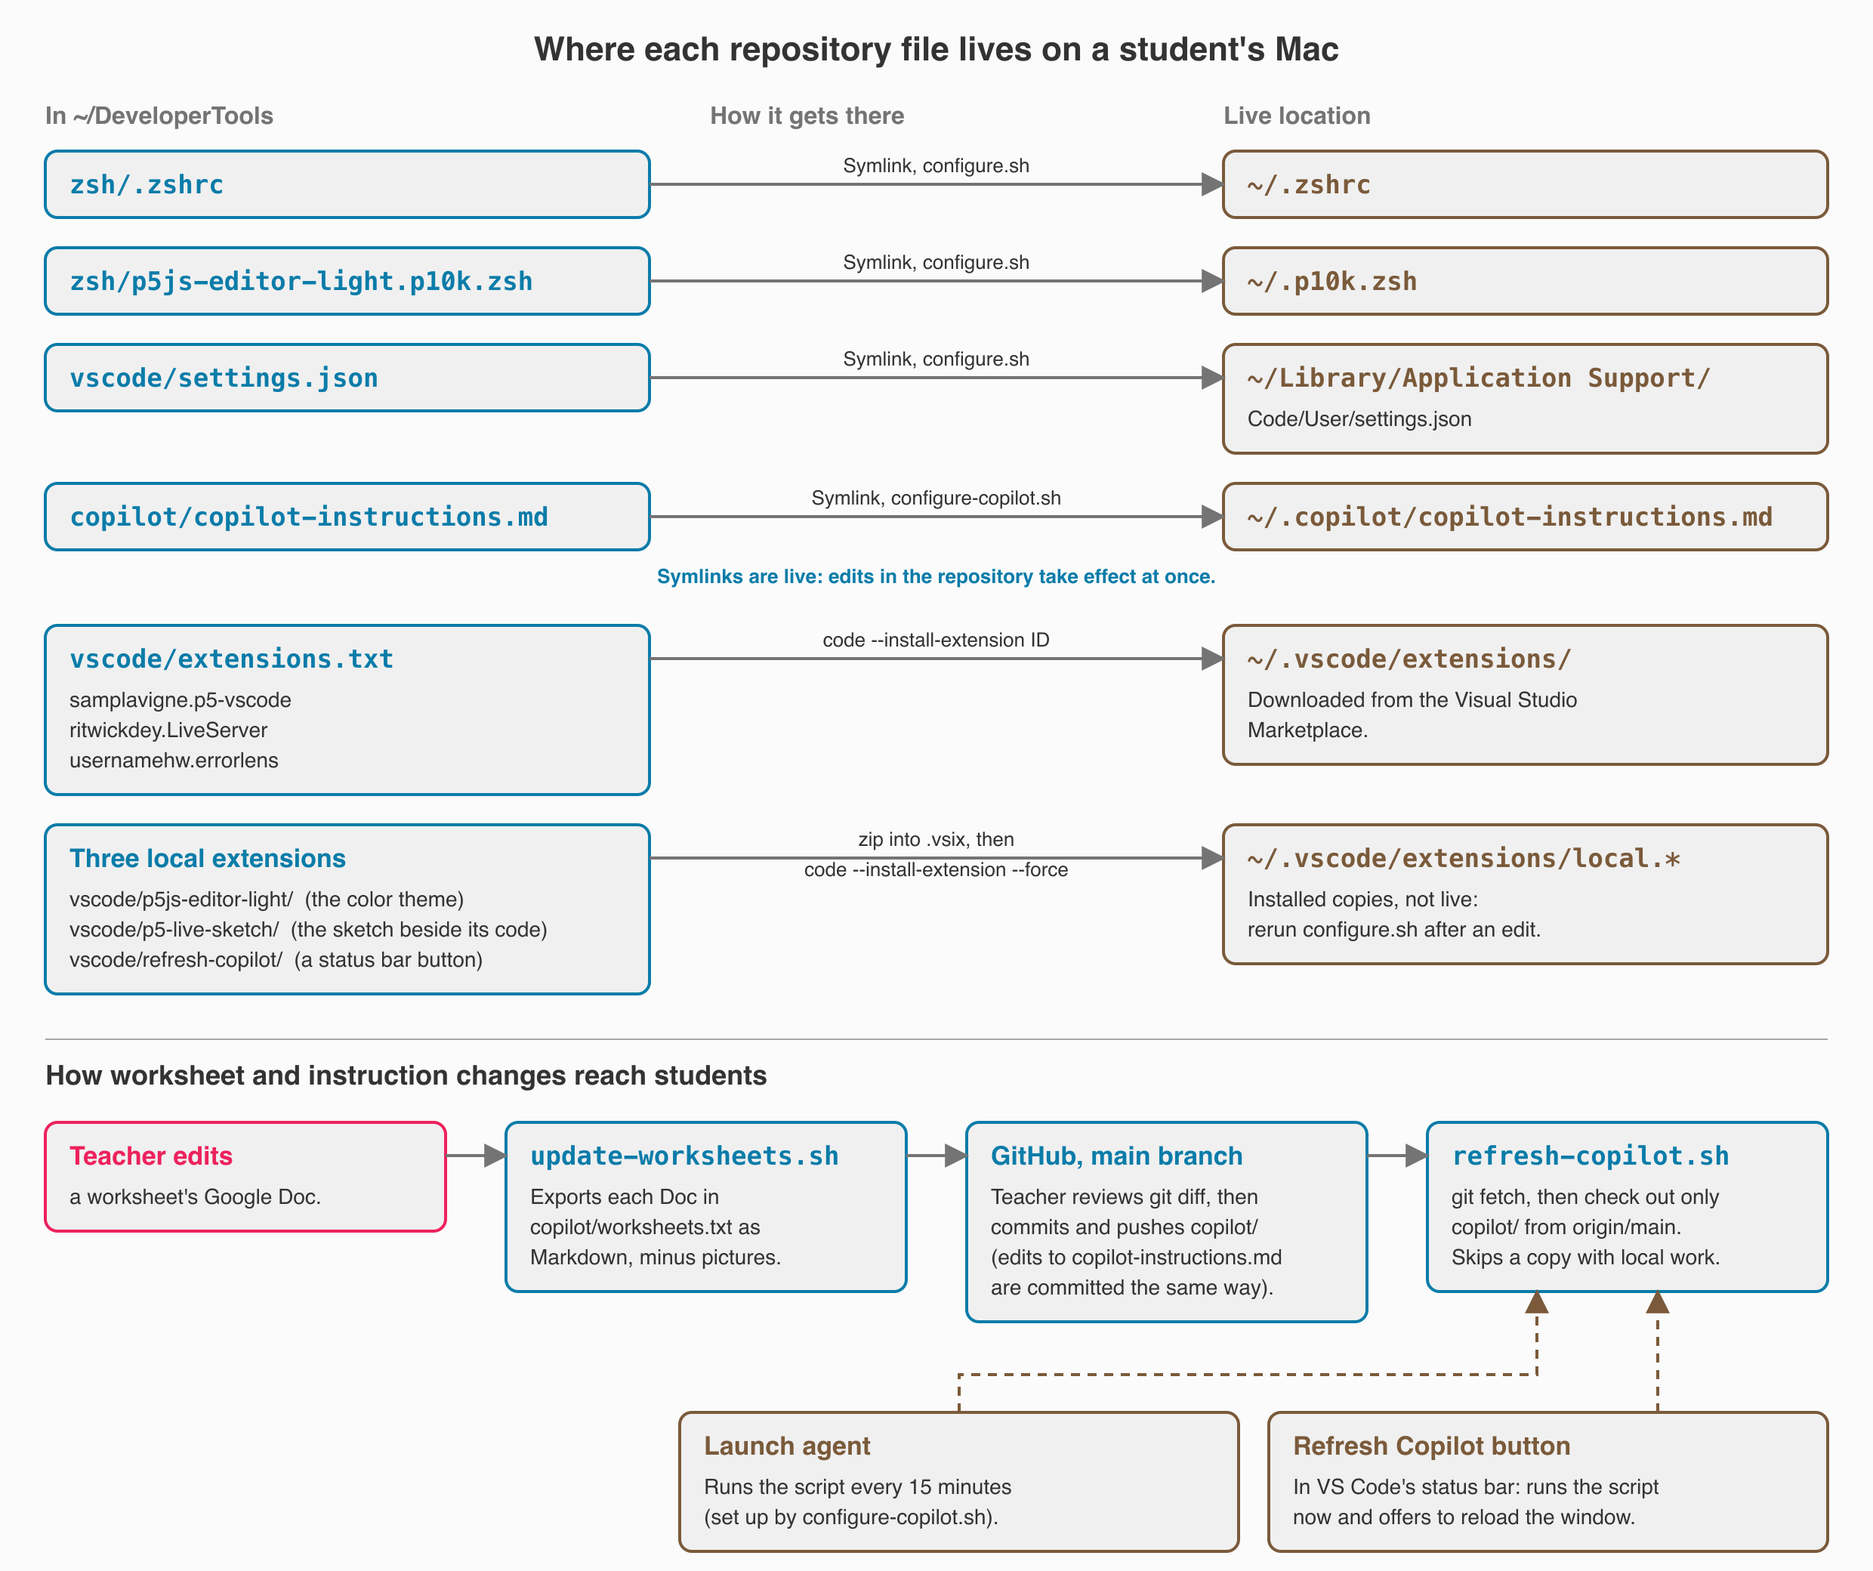
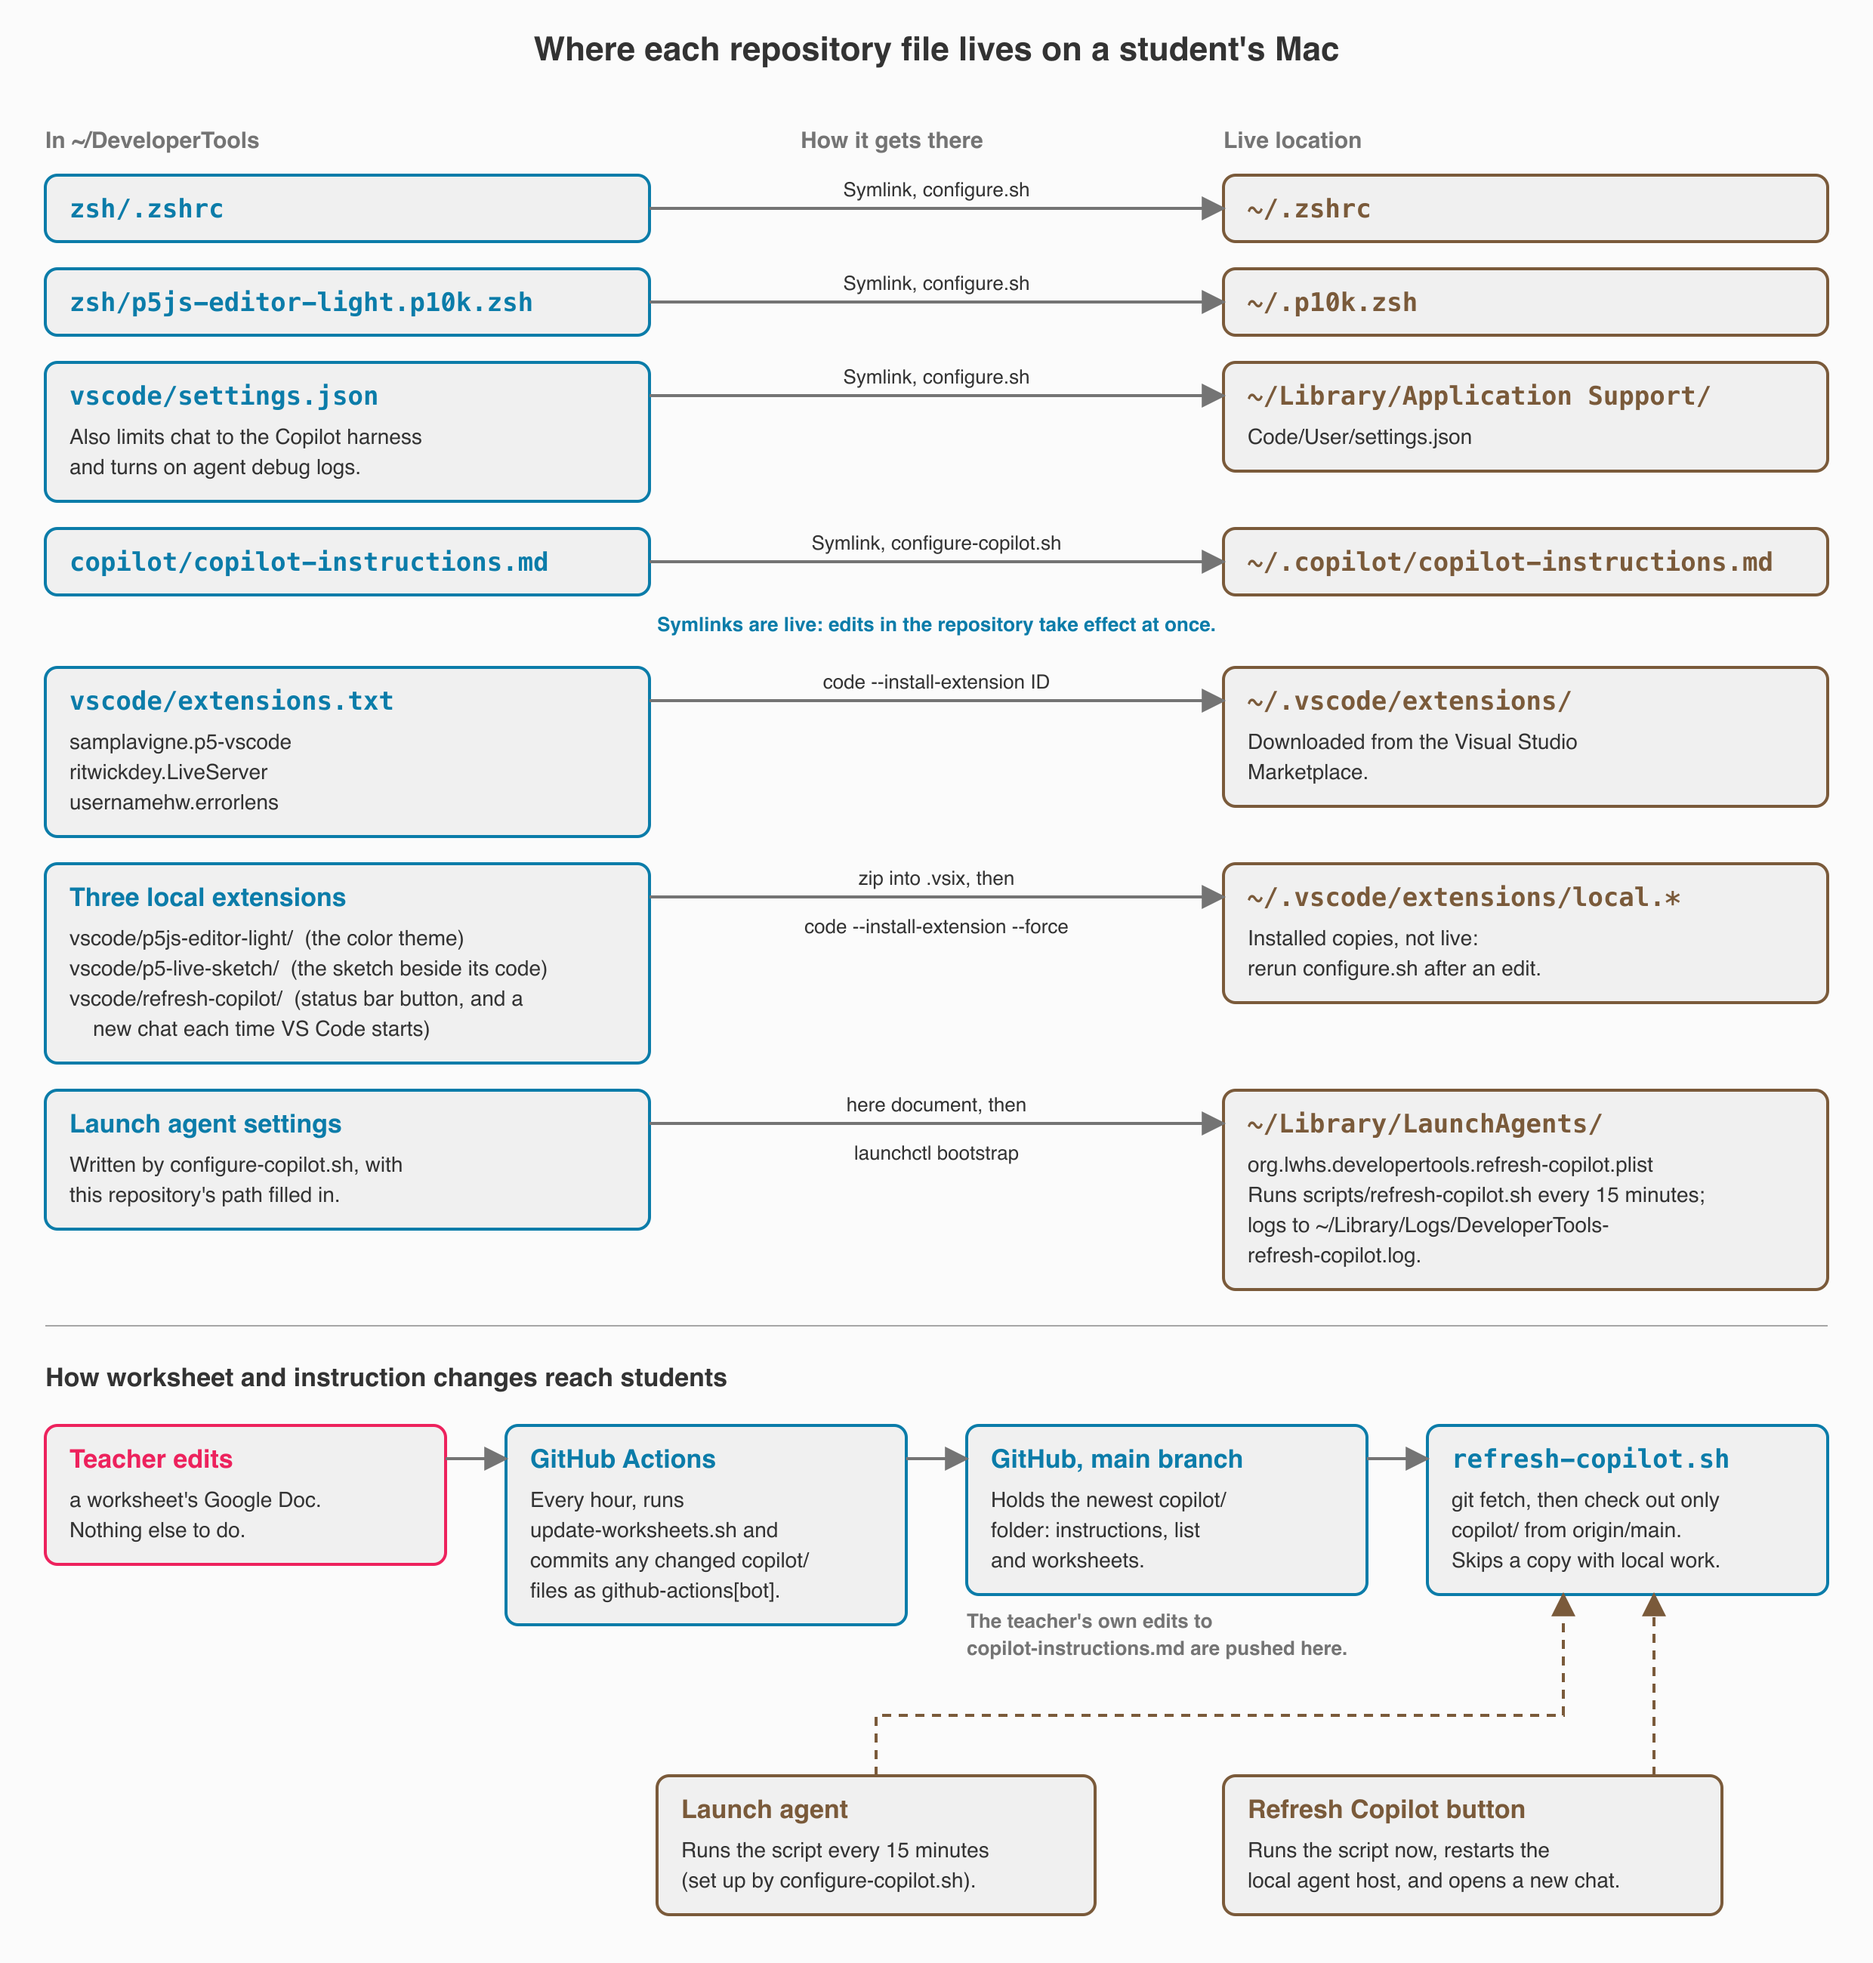
updated docs diagrams with recent changes

diff --git a/CLAUDE.md b/CLAUDE.md
@@ -25,7 +25,7 @@ can replace its link with a regular file; check with `ls -la` (look for `->`).
 | `vscode/p5-live-sketch/` | installed as `local.p5-live-sketch` (packaged `.vsix`, not linked) | Local extension "p5.js Live Sketch" (`extension.js`, `package.json`): activates on `workspaceContains:sketch.js`, first runs `workbench.action.browser.closeAll` (only at startup) so integrated browser tabs VS Code restored before Live Server is up do not show an error page, then opens `sketch.js` in column one, runs `extension.liveServer.goOnline`, polls `http://127.0.0.1:PORT/sketch.js` (rereading `liveServer.settings.port`) until it matches the file on disk, then runs `workbench.action.browser.open` with `url`, `reuseUrlFilter` and `openToSide`. Command `p5LiveSketch.open`; setting `p5LiveSketch.openOnStart` |
 | `vscode/p5js-editor-light/` | installed as `local.p5js-editor-light` (packaged `.vsix`, not linked) | Theme extension: `package.json` (publisher `local`, `uiTheme` `vs`, version 0.0.2), `themes/p5js-editor-light-color-theme.json`, and `extension.js`, which runs on `onStartupFinished` and, once per Mac (flag `p5jsEditorLight.themeApplied` in `globalState`), removes and rewrites `workbench.colorTheme` = `p5.js Editor Light` at the Global target. Reason: on a test Mac on 2026-10-19 the setting was correct but VS Code kept its default theme (it first started before the theme was installed) until the theme was picked by hand, which moved the same line in `settings.json`. |
 
-The repo has five folders: `scripts/` (the four setup scripts plus `configure-copilot.sh`, `refresh-copilot.sh` and `update-worksheets.sh`), `zsh/` (`.zshrc` and the Powerlevel10k config), `vscode/` (`settings.json`, `extensions.txt`, and the theme extension), `copilot/` (Copilot's class instructions, `worksheets.txt`, and `worksheets/`), and `docs/` (four flowchart images: `setup-flow.png`, the order the setup scripts run in; `file-map.png`, where each repo file goes on a student's Mac and how `copilot/` changes reach students; and `worksheet-sync.png`, the hourly worksheet workflow from a Google Doc edit or a `worksheets.txt` change through `update-worksheets.sh`, the bot commit, and `refresh-copilot.sh` on students' Macs; and `copilot-refresh.png`, how the launch agent and the Refresh Copilot button run `refresh-copilot.sh`'s three checks how the button then restarts the local agent host and opens a new chat, and how each VS Code launch opens a new chat; drawn as SVG by a Python script and rendered with `rsvg-convert -w 2200`, neither kept in the repo). The hidden `.github/workflows/` folder holds `update-worksheets.yml`. `configure.sh` finds the repo root as the parent of `scripts/`. The scripts set up a Mac. Their comments teach bash to students, so keep
+The repo has five folders: `scripts/` (the four setup scripts plus `configure-copilot.sh`, `refresh-copilot.sh` and `update-worksheets.sh`), `zsh/` (`.zshrc` and the Powerlevel10k config), `vscode/` (`settings.json`, `extensions.txt`, and the theme extension), `copilot/` (Copilot's class instructions, `worksheets.txt`, and `worksheets/`), and `docs/` (four flowchart images: `setup-flow.png`, the order the setup scripts run in; `file-map.png`, where each repo file goes on a student's Mac and how `copilot/` changes reach students; and `worksheet-sync.png`, the hourly worksheet workflow from a Google Doc edit or a `worksheets.txt` change through `update-worksheets.sh`, the bot commit, and `refresh-copilot.sh` on students' Macs; and `copilot-refresh.png`, how the launch agent and the Refresh Copilot button run `refresh-copilot.sh`'s three checks how the button then restarts the local agent host and opens a new chat, and how each VS Code launch opens a new chat; drawn as SVG by a Python script and rendered with `rsvg-convert -w 2200`, neither kept in the repo). On 2026-10-25 `setup-flow.png`, `file-map.png` and `worksheet-sync.png` were redrawn the same way (`rsvg-convert -z 2`) to add `bootstrap.sh`'s `git stash push` of `vscode/settings.json`, the uninstall of old symlinked extensions, the Copilot-only harness settings, the launch agent's plist and log, the hourly workflow, the 100-version check, and the button's agent-host restart and new chat (replacing the old "Reload Window" text). The hidden `.github/workflows/` folder holds `update-worksheets.yml`. `configure.sh` finds the repo root as the parent of `scripts/`. The scripts set up a Mac. Their comments teach bash to students, so keep
 them accurate and in that teaching style when editing. They must run on macOS's
 built-in bash 3.2: no associative arrays, `mapfile` or `${variable,,}`. Every
 step skips work that is already done, so each script is safe to rerun.
